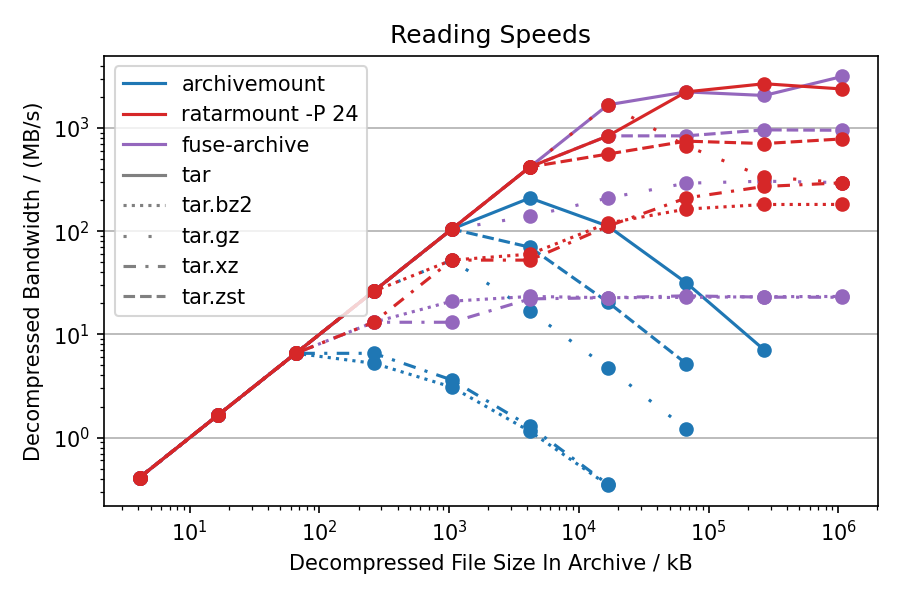
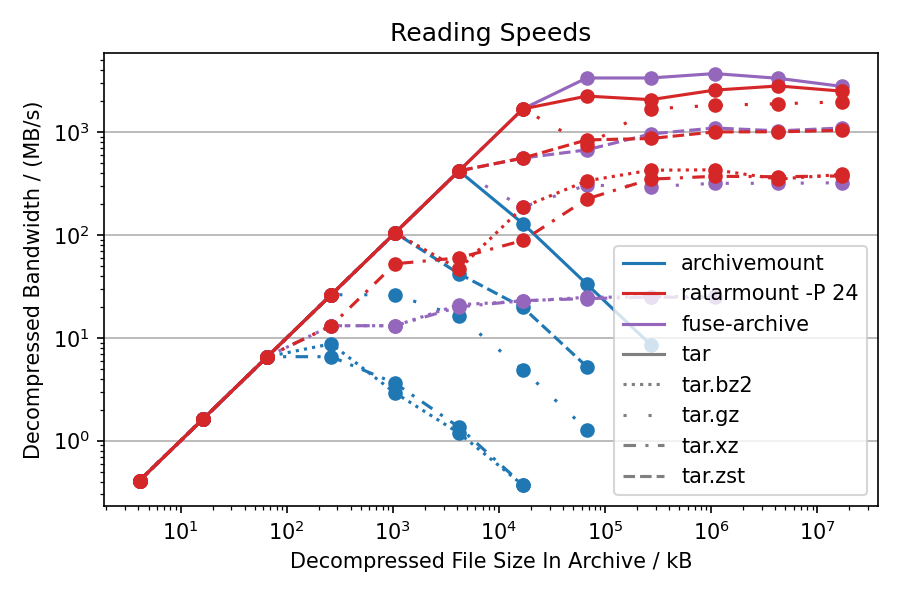
[doc] Update benchmarks

diff --git a/benchmarks/scripts/compareArchivemount.py b/benchmarks/scripts/compareArchivemount.py
@@ -22,15 +22,15 @@ def axisValueReduction(ax, axis, reduction, init):
     for line in ax.get_lines():
         # have to use numpy here, because of:
         # https://stackoverflow.com/questions/4237914/python-max-min-builtin-functions-depend-on-parameter-order
-        x = np.array(line.get_xdata(), dtype=np.float)
-        y = np.array(line.get_ydata(), dtype=np.float)
+        x = np.array(line.get_xdata(), dtype=float)
+        y = np.array(line.get_ydata(), dtype=float)
 
         # mask not only NaNs per each x,y, but also mask all y-values whose
         # corresponding x-values are NaN!
         unmasked = np.logical_and(np.logical_not(np.isnan(x)), np.logical_not(np.isnan(y)))
         x = x[unmasked]
         y = y[unmasked]
-        unmasked = np.array([True] * len(x), dtype=np.bool)
+        unmasked = np.array([True] * len(x), dtype=bool)
         if axis == 'x' and ax.get_xscale() == 'log':
             np.logical_and(unmasked, x > 0)
         if axis == 'y' and ax.get_yscale() == 'log':
@@ -87,14 +87,14 @@ def loadData(fileName):
                     data[tool][command][compression] = []
 
                 if labels[-1] == 'startTime':
-                    data[tool][command][compression] += [np.array(row[3:-1], dtype='float')]
+                    data[tool][command][compression] += [np.array(row[3:-1], dtype=float)]
                 else:
-                    data[tool][command][compression] += [np.array(row[3], dtype='float')]
+                    data[tool][command][compression] += [np.array(row[3], dtype=float)]
 
     for key, value in data.items():
         for command, values in value.items():
             for compression, values2 in values.items():
-                data[key][command][compression] = np.array(values2, dtype='float').transpose()
+                data[key][command][compression] = np.array(values2, dtype=float).transpose()
 
     return labels[3:], data
 
@@ -244,7 +244,7 @@ def plotComparison(fileName):
     ymin = axisValueReduction(ax, 'y', np.nanmin, float('+inf'))
     ymax = axisValueReduction(ax, 'y', np.nanmax, float('-inf'))
     x = 10 ** np.linspace(np.log10(xmin), np.log10(xmax))
-    y = x ** 2
+    y = x**2
     y = y / y[-1] * ymax / 2000
     ax.plot(x[y > ymin], y[y > ymin], color='k', linestyle='--', label="quadratic scaling")
 
@@ -382,6 +382,7 @@ def plotRatarmountParallelComparison(fileName, compression):
     print("Written out:", fileName)
     return True
 
+
 def plotAccessLatency(fileName):
     fileName = dataFile
     labels, data = loadData(fileName)
@@ -422,5 +423,5 @@ if __name__ == "__main__":
 
     plotAccessLatency(dataFile)
     plotComparison(dataFile)
-    for compression in ['', 'bz2', 'xz', 'find']:
+    for compression in ['', 'bz2', 'gz', 'xz', 'find']:
         plotRatarmountParallelComparison(dataFile, compression)

diff --git a/benchmarks/scripts/compareBandwidth.py b/benchmarks/scripts/compareBandwidth.py
@@ -21,15 +21,15 @@ def axisValueReduction(ax, axis, reduction, init):
     for line in ax.get_lines():
         # have to use numpy here, because of:
         # https://stackoverflow.com/questions/4237914/python-max-min-builtin-functions-depend-on-parameter-order
-        x = np.array(line.get_xdata(), dtype=np.float)
-        y = np.array(line.get_ydata(), dtype=np.float)
+        x = np.array(line.get_xdata(), dtype=float)
+        y = np.array(line.get_ydata(), dtype=float)
 
         # mask not only NaNs per each x,y, but also mask all y-values whose
         # corresponding x-values are NaN!
         unmasked = np.logical_and(np.logical_not(np.isnan(x)), np.logical_not(np.isnan(y)))
         x = x[unmasked]
         y = y[unmasked]
-        unmasked = np.array([True] * len(x), dtype=np.bool)
+        unmasked = np.array([True] * len(x), dtype=bool)
         if axis == 'x' and ax.get_xscale() == 'log':
             np.logical_and(unmasked, x > 0)
         if axis == 'y' and ax.get_yscale() == 'log':
@@ -321,11 +321,11 @@ def plotReadingComparison(fileName):
     # add linear scaling
     x = 10 ** np.linspace(np.log10(xmin), np.log10(xmax))
     y = x
-    y = y / y[-1] * ymax / 200
+    y = y / y[-1] * ymax / 50
     ax.plot(x[y > ymin], y[y > ymin], color='k', linestyle='-', label="linear scaling")
 
     # add quadratic scaling
-    x = 10 ** np.linspace(np.log10(xmin), np.log10(xmax) - 2)
+    x = 10 ** np.linspace(np.log10(xmin), np.log10(xmax) - 4)
     y = x ** 2
     y = y / y[-1] * ymax
     ax.plot(x[y > ymin], y[y > ymin], color='k', linestyle='--', label="quadratic scaling")
